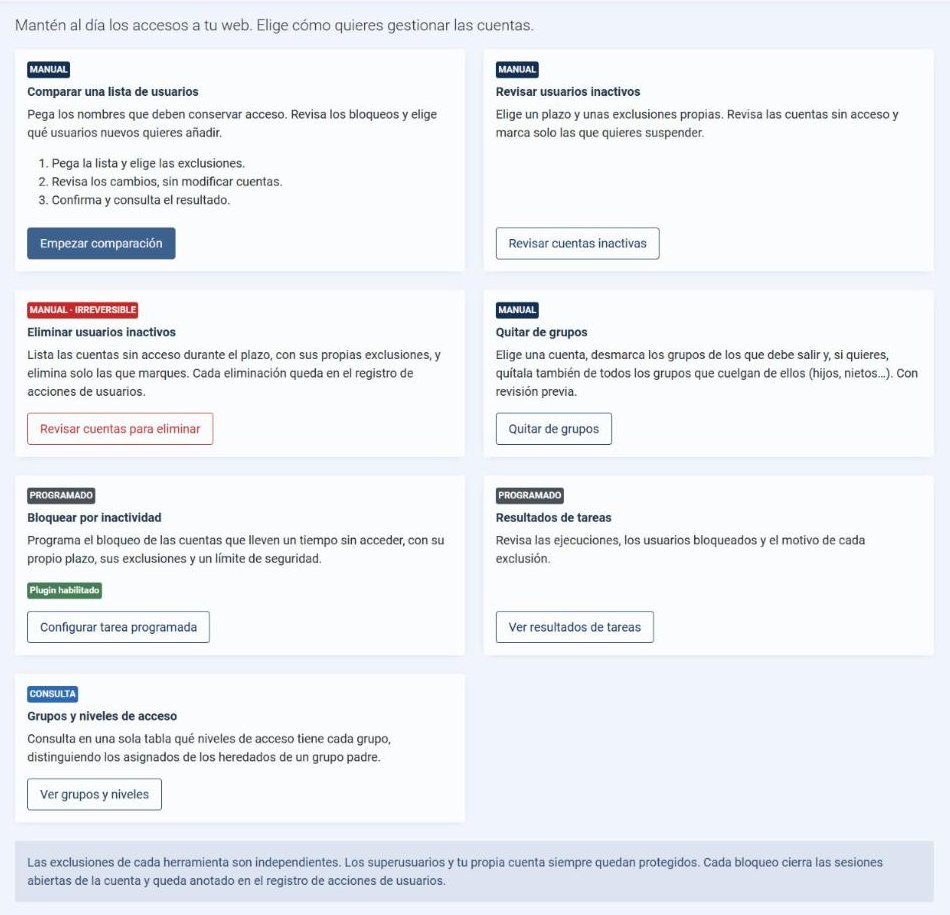
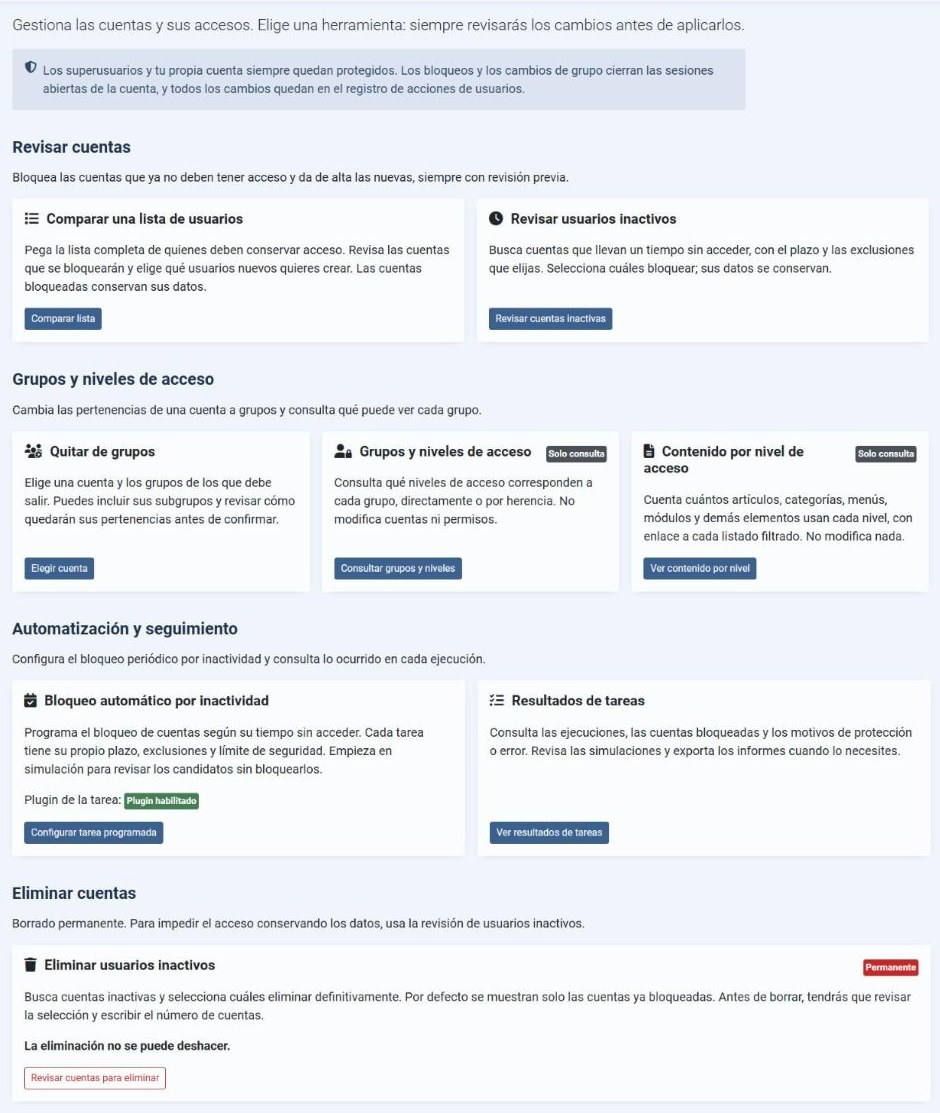
Refresh the home screen screenshot
Taken on the Spanish test site with 2026.10.13 installed.

Claude-Session: https://claude.ai/code/session_01WVx7CxBpcuGzXeHpUpPAj1

Changed region(s): [[0.0, 0.0, 0.9872, 1.0], [0.5245, 0.7344, 0.6479, 0.765]]

diff --git a/docs/capturas.md b/docs/capturas.md
@@ -6,7 +6,7 @@
 
 Estas capturas compartidas muestran la interfaz en español en Joomla 6.2.0. Las de eliminación se incorporaron con 2026.10.5, la del panel de Usuarios con 2026.10.6, y la portada, la de grupos y niveles de acceso y las de quitar de grupos con 2026.10.9; las demás corresponden a una interfaz anterior y pueden diferir de la actual. Para las opciones y el comportamiento vigentes, consulta el [README](../README.md) y las [preguntas frecuentes](../FAQ.md).
 
-![Portada de User Tools (2026.10.9)](screenshots/01-portada.jpg)
+![Portada de User Tools agrupada en secciones: revisar cuentas, grupos y niveles, automatización y eliminar cuentas (2026.10.13)](screenshots/01-portada.jpg)
 
 ![Comparación: lista y exclusiones](screenshots/02-comparacion-lista.jpg)
 

diff --git a/docs/screenshots.en.md b/docs/screenshots.en.md
@@ -6,7 +6,7 @@
 
 These shared screenshots show the Spanish interface on Joomla 6.2.0. Deletion screenshots were added in 2026.10.5, the Users dashboard screenshot in 2026.10.6, and the home screen, groups and access levels, and remove from groups screenshots in 2026.10.9. The other screenshots show an older interface and may differ from the current one. For current options and behaviour, see the [README](../README.en.md) and [FAQ](../FAQ.en.md).
 
-![User Tools home screen (2026.10.9)](screenshots/01-portada.jpg)
+![User Tools home screen grouped into sections: review accounts, groups and levels, automation and delete accounts (2026.10.13, Spanish interface)](screenshots/01-portada.jpg)
 
 ![Comparison: list and exclusions](screenshots/02-comparacion-lista.jpg)
 
